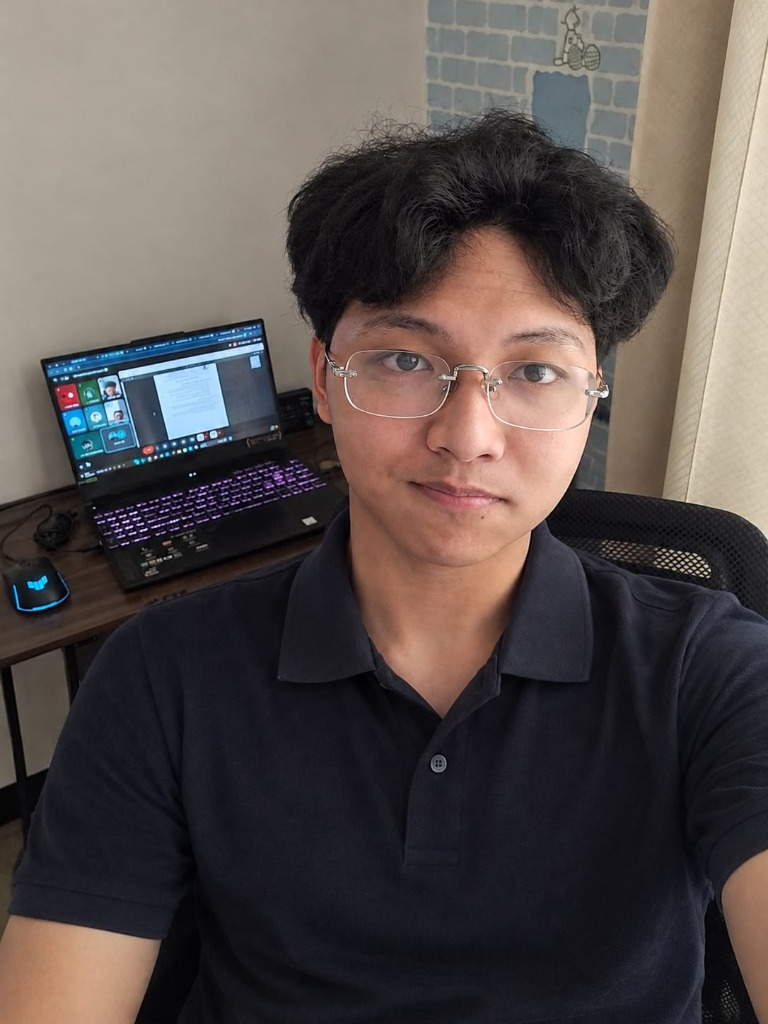
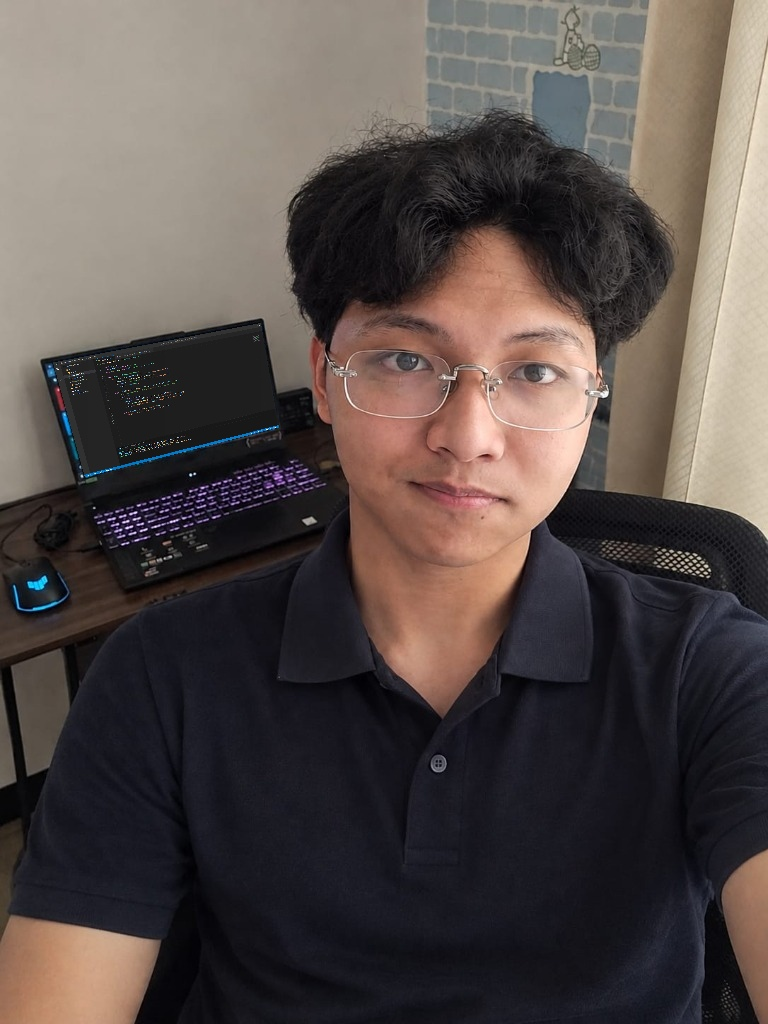
feat: replace laptop zoom call screen with authentic VS Code dark editor

Changed region(s): [[0.0625, 0.3125, 0.375, 0.4688]]

diff --git a/index.html b/index.html
@@ -1030,7 +1030,7 @@
 
         <div class="polaroid-card">
           <div class="polaroid-img-box">
-            <img src="profile.jpg?v=2" alt="Muhammad Aqil Azami" class="polaroid-img">
+            <img src="profile.jpg?v=3" alt="Muhammad Aqil Azami" class="polaroid-img">
           </div>
           <div class="polaroid-caption">
             Muhammad Aqil Azami ✨
